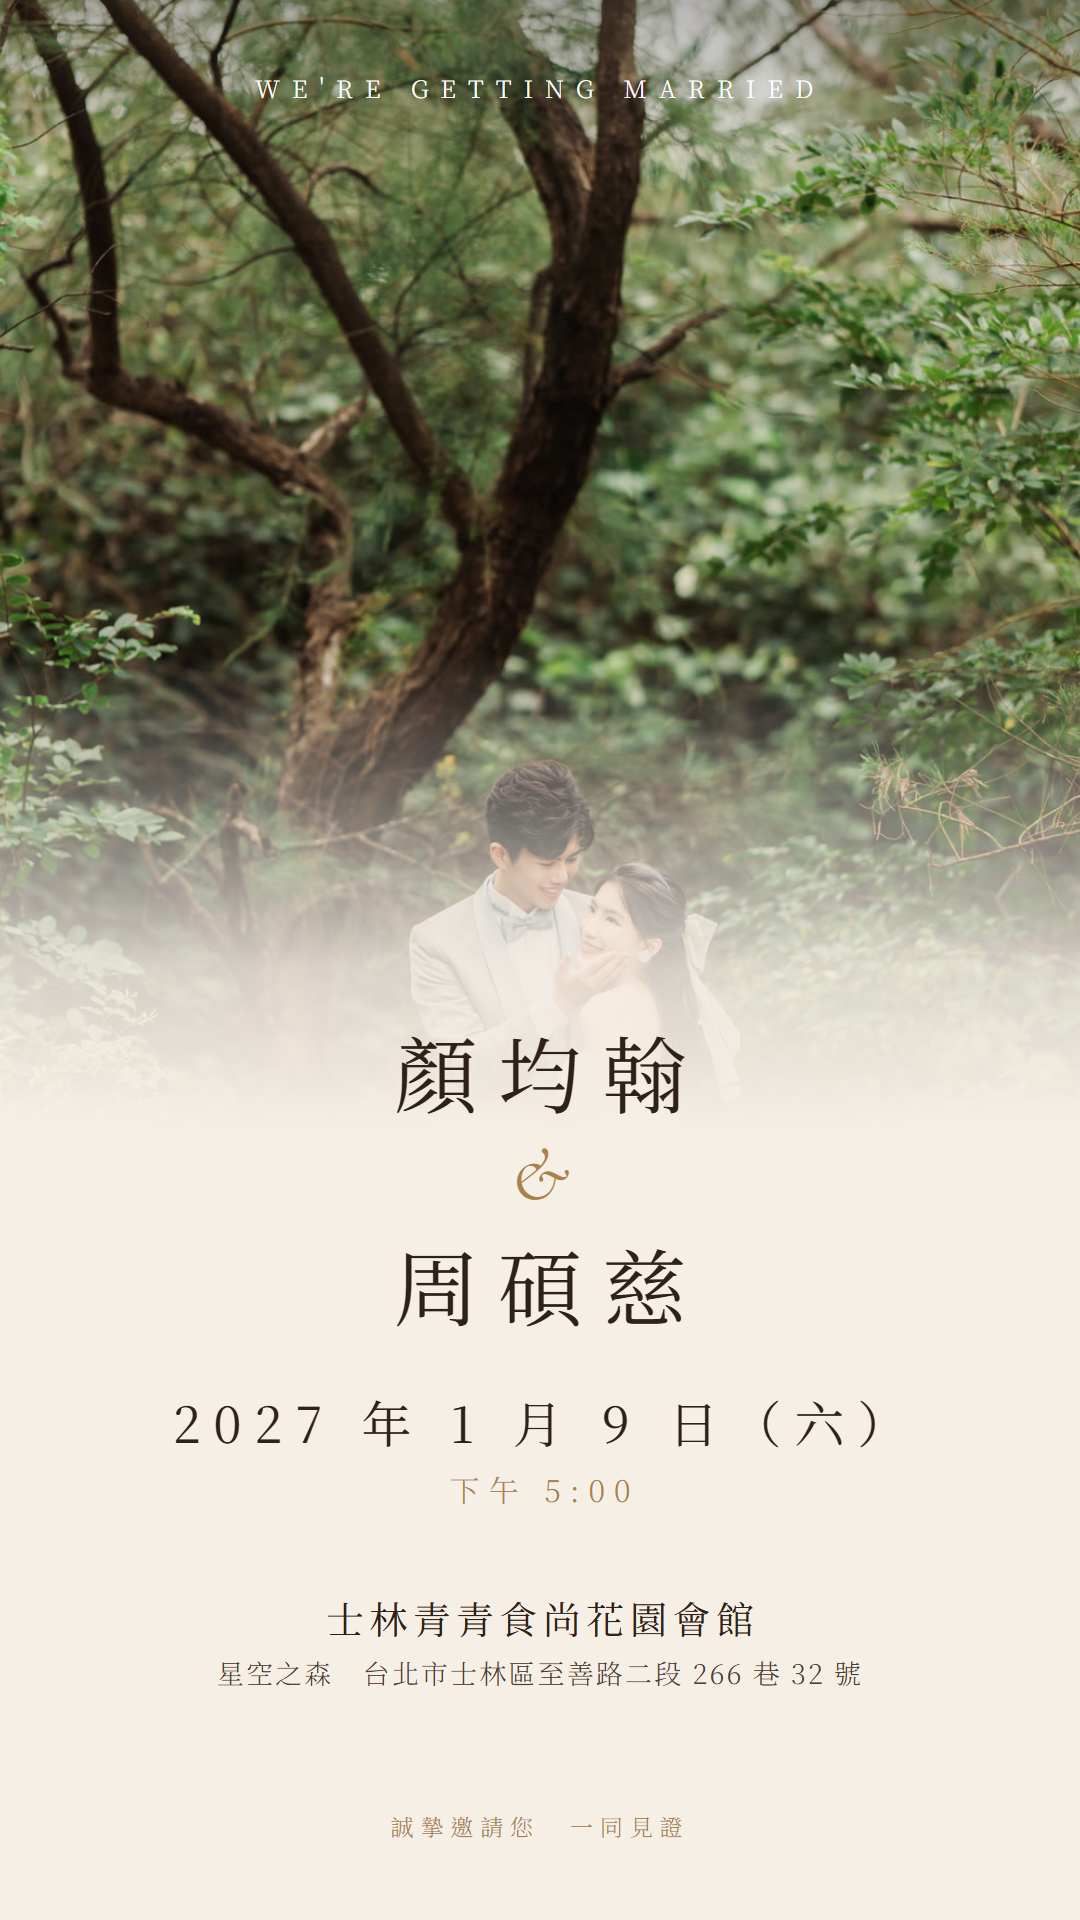
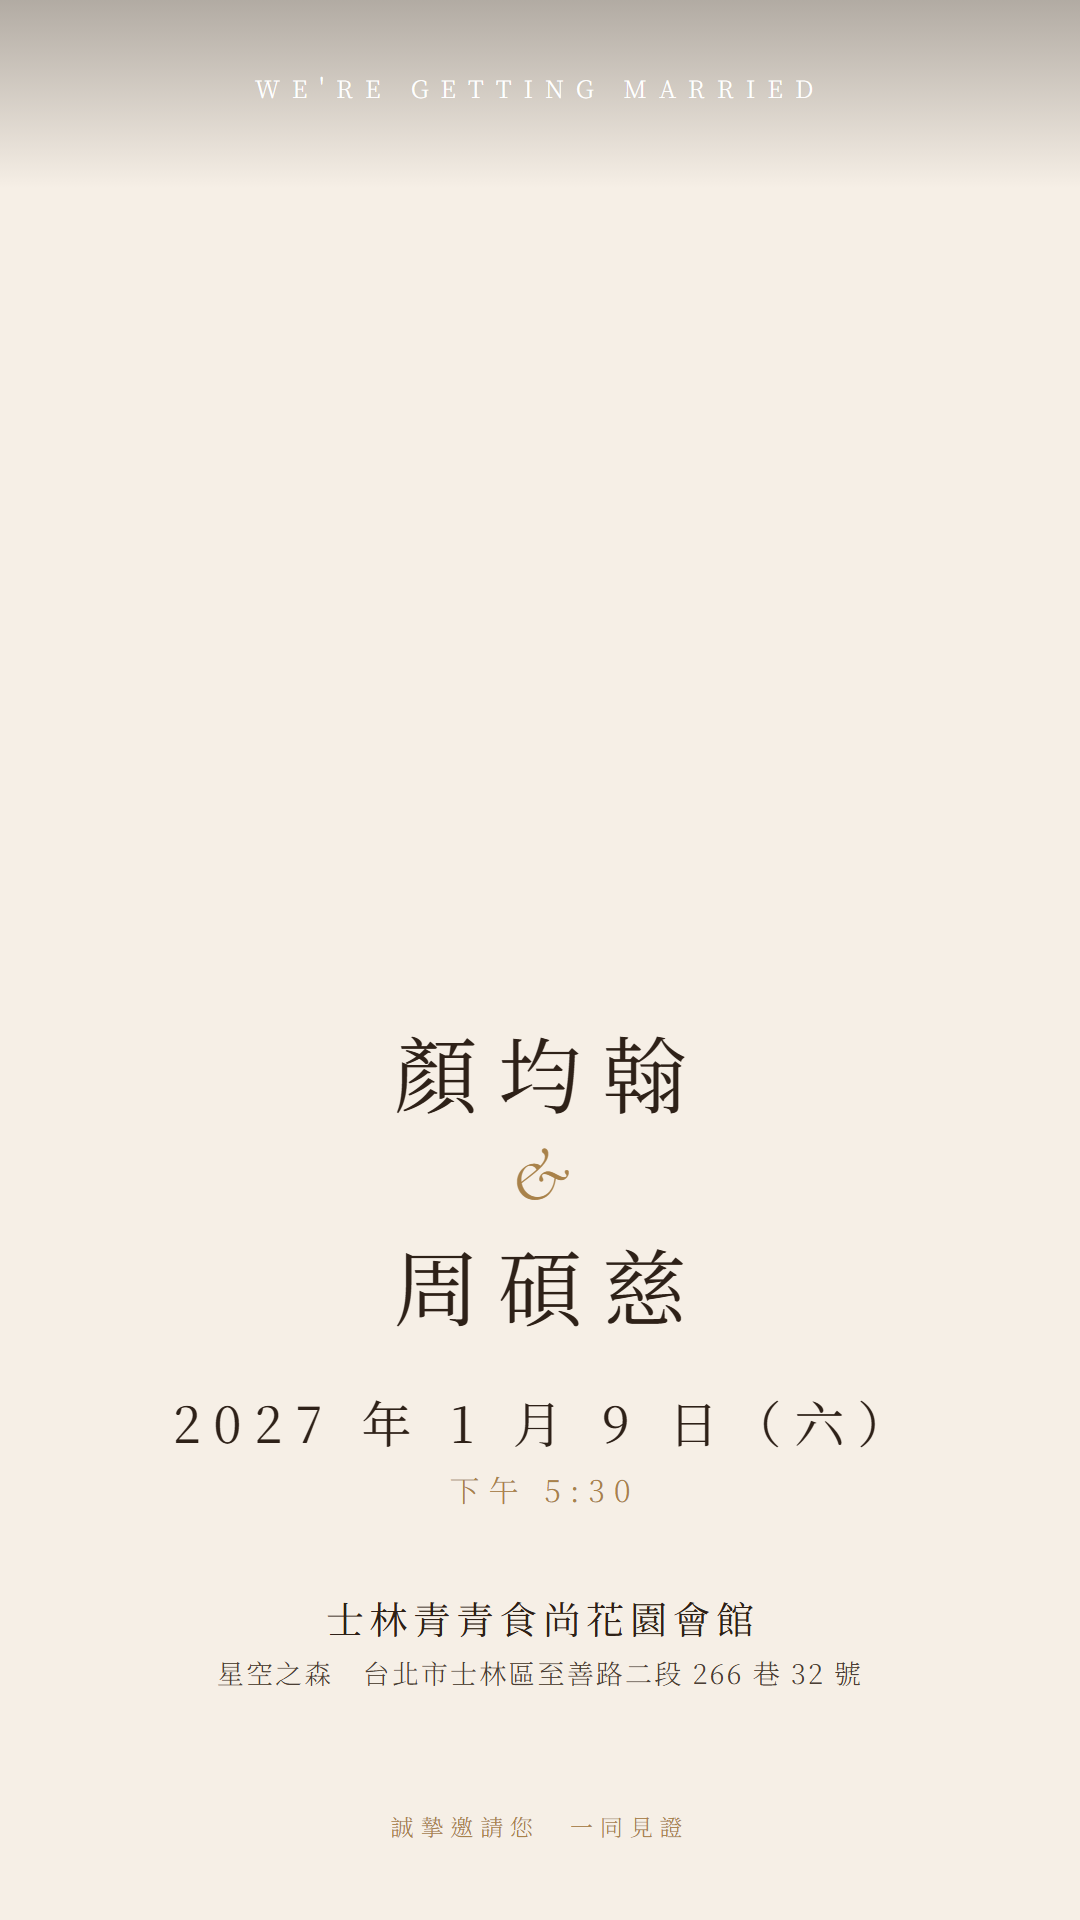
Countdown with seconds; ceremony time 17:30

diff --git a/index.html b/index.html
@@ -4,12 +4,12 @@
 <meta charset="utf-8">
 <meta name="viewport" content="width=device-width, initial-scale=1, viewport-fit=cover">
 <title>顏均翰 ＆ 周碩慈 婚禮邀請</title>
-<meta name="description" content="2027.01.09 下午五點，士林青青食尚花園會館．星空之森。誠摯邀請您一同見證。">
+<meta name="description" content="2027.01.09 下午五點半，士林青青食尚花園會館．星空之森。誠摯邀請您一同見證。">
 <meta property="og:type" content="website">
 <meta property="og:url" content="https://jyh-cst-wedding-invite.vercel.app/">
 <meta property="og:site_name" content="顏均翰 ＆ 周碩慈">
 <meta property="og:title" content="顏均翰 ＆ 周碩慈 婚禮邀請">
-<meta property="og:description" content="2027.01.09 下午五點，士林青青食尚花園會館．星空之森。誠摯邀請您一同見證。">
+<meta property="og:description" content="2027.01.09 下午五點半，士林青青食尚花園會館．星空之森。誠摯邀請您一同見證。">
 <meta property="og:image" content="https://jyh-cst-wedding-invite.vercel.app/og.jpg">
 <meta property="og:image:width" content="1200">
 <meta property="og:image:height" content="630">
@@ -67,9 +67,9 @@ p{font-size:15px;letter-spacing:.06em}
 .btns{display:flex;gap:10px;justify-content:center;flex-wrap:wrap;margin-top:26px}
 .btn{display:inline-block;padding:12px 22px;border:1px solid var(--ink);color:var(--ink);text-decoration:none;font-size:13px;letter-spacing:.22em;background:transparent;font-family:var(--serif);cursor:pointer}
 .btn.fill{background:var(--ink);color:var(--bg)}
-.count{display:flex;justify-content:center;gap:18px;margin-top:6px}
-.count div{min-width:58px}
-.count b{display:block;font-family:var(--script);font-size:38px;font-weight:400;line-height:1.1}
+.count{display:flex;justify-content:center;gap:12px;margin-top:6px}
+.count div{min-width:60px}
+.count b{display:block;font-family:var(--script);font-size:38px;font-weight:400;line-height:1.1;font-variant-numeric:lining-nums tabular-nums;font-feature-settings:"lnum","tnum"}
 .count span{font-size:10px;letter-spacing:.3em;color:var(--gold)}
 
 /* photos */
@@ -144,6 +144,7 @@ footer p{margin-top:10px;font-size:13px;letter-spacing:.3em;color:var(--gold)}
     <div><b id="cd">–</b><span>DAYS</span></div>
     <div><b id="ch">–</b><span>HOURS</span></div>
     <div><b id="cm">–</b><span>MINS</span></div>
+    <div><b id="cs">–</b><span>SECS</span></div>
   </div>
 </section>
 
@@ -204,16 +205,20 @@ footer p{margin-top:10px;font-size:13px;letter-spacing:.3em;color:var(--gold)}
 
 // Countdown to the ceremony (Asia/Taipei, UTC+8)
 (function(){
-  var target=new Date('2027-01-09T17:00:00+08:00').getTime();
+  var target=new Date('2027-01-09T17:30:00+08:00').getTime();
+  var el={d:document.getElementById('cd'),h:document.getElementById('ch'),m:document.getElementById('cm'),s:document.getElementById('cs')};
+  function pad(n){return String(n).padStart(2,'0')}
   function tick(){
-    var d=target-Date.now();
-    if(d<0){d=0}
-    var days=Math.floor(d/864e5), h=Math.floor(d%864e5/36e5), m=Math.floor(d%36e5/6e4);
-    document.getElementById('cd').textContent=days;
-    document.getElementById('ch').textContent=String(h).padStart(2,'0');
-    document.getElementById('cm').textContent=String(m).padStart(2,'0');
+    var d=Math.max(0,target-Date.now());
+    var secs=Math.floor(d/1000);
+    el.d.textContent=Math.floor(secs/86400);
+    el.h.textContent=pad(Math.floor(secs%86400/3600));
+    el.m.textContent=pad(Math.floor(secs%3600/60));
+    el.s.textContent=pad(secs%60);
+    // re-aim at the next whole second so the seconds never skip or stutter
+    setTimeout(tick,1000-(Date.now()%1000)+5);
   }
-  tick(); setInterval(tick,30000);
+  tick();
 })();
 
 // Add to calendar (.ics)
@@ -222,7 +227,7 @@ document.getElementById('ics').addEventListener('click',function(){
     'BEGIN:VCALENDAR','VERSION:2.0','PRODID:-//Wedding//ZH','BEGIN:VEVENT',
     'UID:wedding-20270109@invite',
     'DTSTAMP:20261101T000000Z',
-    'DTSTART:20270109T090000Z','DTEND:20270109T130000Z',
+    'DTSTART:20270109T093000Z','DTEND:20270109T133000Z',
     'SUMMARY:顏均翰 ＆ 周碩慈 婚禮',
     'LOCATION:青青食尚花園會館 星空之森（台北市士林區至善路二段266巷32號）',
     'DESCRIPTION:進入會館前的橋僅容一台車寬，請務必遵守現場人員指揮。',
